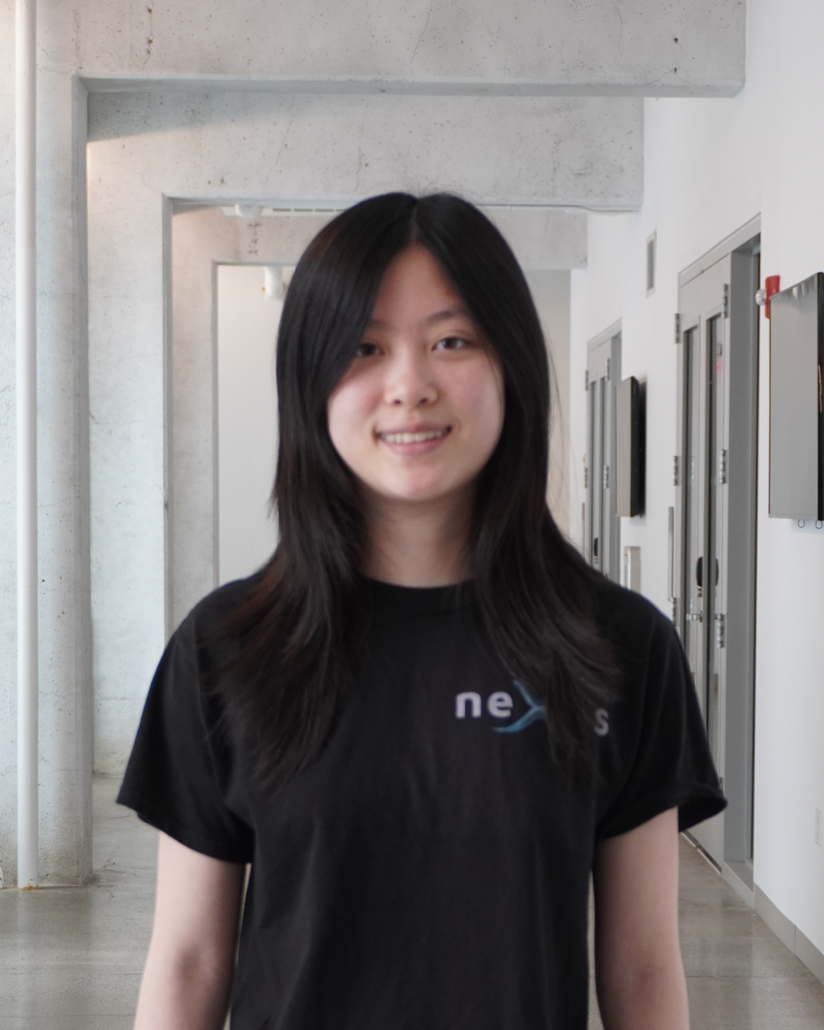
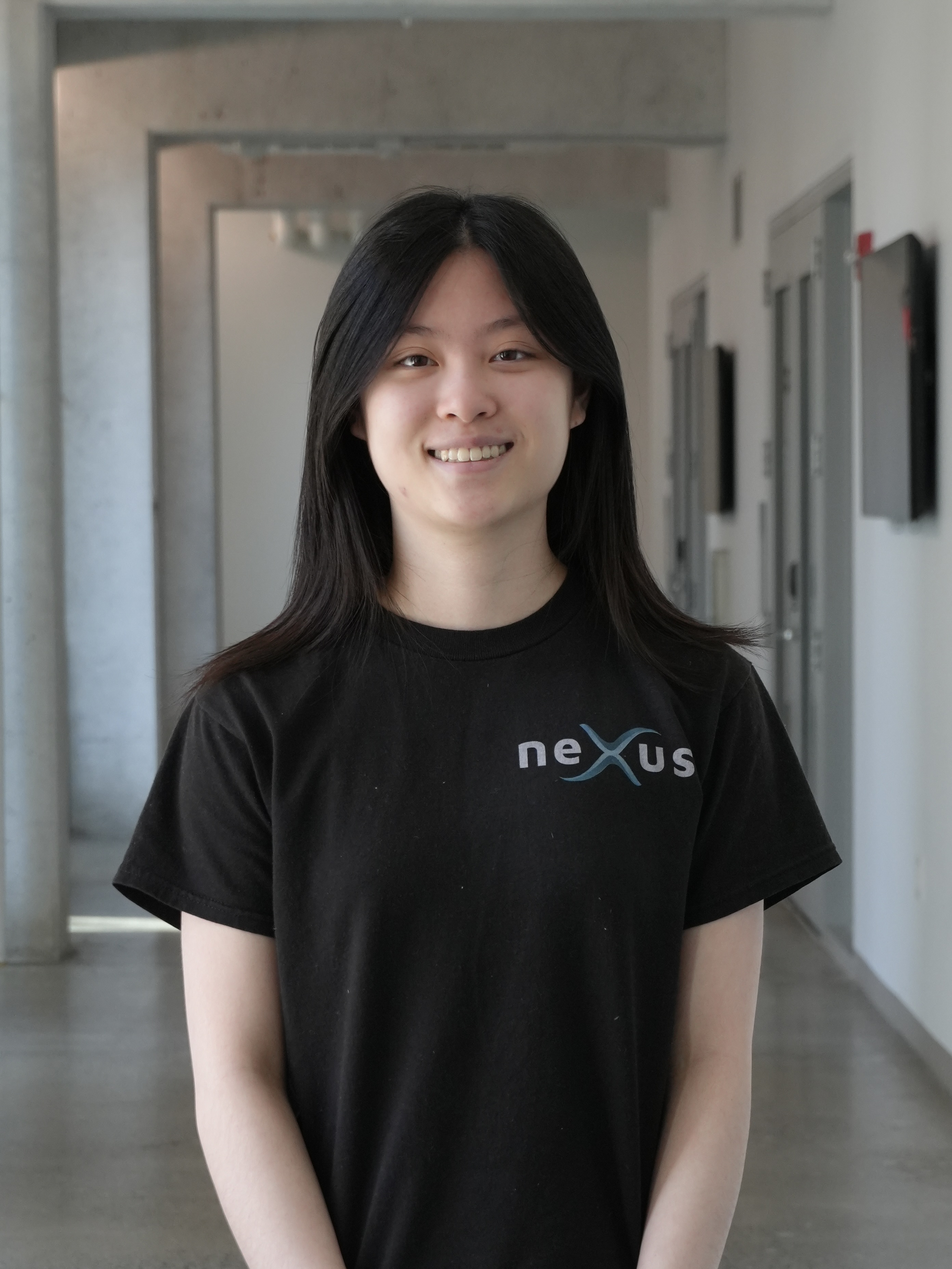
updated new photos and headshots

diff --git a/src/app/support/page.jsx b/src/app/support/page.jsx
@@ -40,8 +40,8 @@ export default function Support() {
           >
             <Image
               className="rounded pb-5"
-              src={"/team/fullteam.jpeg"}
-              alt="fullteam image"
+              src={"/team/cute-fullteam.jpeg"}
+              alt="cute fullteam image"
               width="700"
               height="700"
             />
@@ -105,7 +105,7 @@ export default function Support() {
                 sponsorship package below!
               </div>
               <div className="flex justify-center">
-                <Button href="" text="View" size="xs" color="navy" />
+                <Button href="/sponsors/Sponsorship_Packet.pdf" text="View" size="xs" color="navy" />
               </div>
             </motion.div>
             <motion.div

diff --git a/src/app/team/page.jsx b/src/app/team/page.jsx
@@ -88,8 +88,8 @@ export default function Team() {
           </div>
           <Image
             className="rounded pb-5"
-            src={"/team/fullteam.jpeg"}
-            alt="fullteam image"
+            src={"/team/silly-fullteam.jpeg"}
+            alt="silly fullteam image"
             width="700"
             height="700"
             priority
@@ -159,7 +159,7 @@ export default function Team() {
           </div>
           <Image
             className="rounded pb-5"
-            src={"/team/mechanical-team.jpg"}
+            src={"/team/mechanical.jpeg"}
             alt="fullteam image"
             width="700"
             height="700"

diff --git a/src/app/page.jsx b/src/app/page.jsx
@@ -198,7 +198,7 @@ export default function Home() {
             <Image
               className="rounded shadow"
               priority
-              src={"/team/fullteam.jpeg"}
+              src={"/team/cute-fullteam.jpeg"}
               width="400"
               height="400"
               alt="Team"
